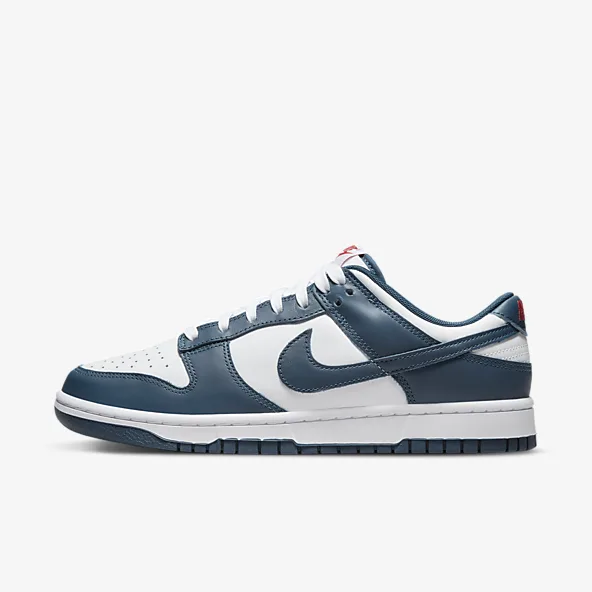
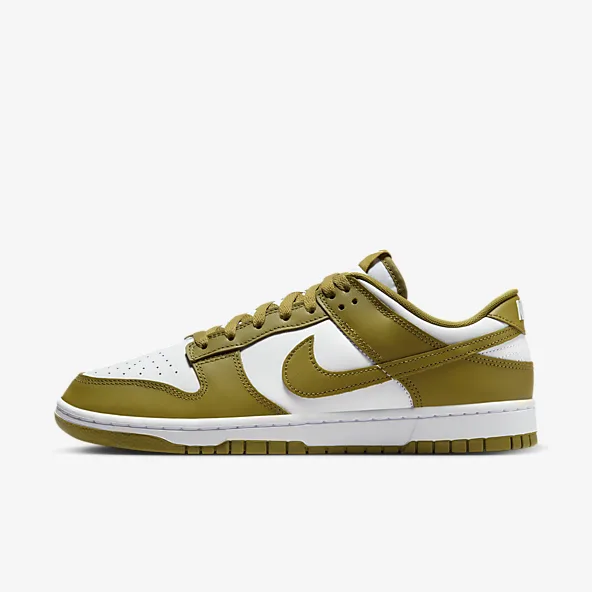
Added nike dunk low retro

Changed region(s): [[0.0912, 0.3953, 0.9122, 0.7905]]

diff --git a/scripts/data/variation.js b/scripts/data/variation.js
@@ -96,17 +96,42 @@
     ],
     images: [
       '../../images/men-shoe/men-shoe-2.png',
-      '../../images/men-shoe/variations/men-shoe-1/2.png',
-      '../../images/men-shoe/variations/men-shoe-1/3.jpeg',
-      '../../images/men-shoe/variations/men-shoe-1/4.png',
-      '../../images/men-shoe/variations/men-shoe-1/5.png',
-      '../../images/men-shoe/variations/men-shoe-1/6.png',
-      '../../images/men-shoe/variations/men-shoe-1/7.png',
-      '../../images/men-shoe/variations/men-shoe-1/8.png',
-      '../../images/men-shoe/variations/men-shoe-1/9.png'
+      '../../images/men-shoe/variations/men-shoe-2/2-1/2.jpeg',
+      '../../images/men-shoe/variations/men-shoe-2/2-1/3.png',
+      '../../images/men-shoe/variations/men-shoe-2/2-1/4.png',
+      '../../images/men-shoe/variations/men-shoe-2/2-1/5.png',
+      '../../images/men-shoe/variations/men-shoe-2/2-1/6.png',
+      '../../images/men-shoe/variations/men-shoe-2/2-1/7.png'
     ],
-    singleImage:'../../images/men-shoe/variations/men-shoe-2/shoe-details-main.png',
-    styleCode: 'FN5832-100'
+    singleImage:'../../images/men-shoe/variations/men-shoe-2/2-1/shoe-details-main.png',
+    styleCode: 'FN5832-100',
+    squareImage: '../../images/men-shoe/variations/men-shoe-2/2-1/square-image.png'
+  }, {
+    id: '2',
+    variationId: '2-2',
+    sizes: [
+      { menSize:'5.5', womenSize: '7', stock: 12 },
+      { menSize:'6', womenSize: '7.5', stock: 12 },
+      { menSize:'6.5', womenSize: '8', stock: 12 },
+      { menSize:'7', womenSize: '8.5', stock: 12 },
+      { menSize:'7.5', womenSize: '9', stock: 12 },
+      { menSize:'8', womenSize: '9.5', stock: 12 },
+      { menSize:'8.5', womenSize: '10', stock: 12 },
+      { menSize:'9', womenSize: '10.5', stock: 12 },
+      { menSize:'9.5', womenSize: '11', stock: 12 },
+    ],
+    images: [
+      '../../images/men-shoe/variations/men-shoe-2/2-2/shoe-details-main.png',
+      '../../images/men-shoe/variations/men-shoe-2/2-2/2.jpeg',
+      '../../images/men-shoe/variations/men-shoe-2/2-2/3.png',
+      '../../images/men-shoe/variations/men-shoe-2/2-2/4.png',
+      '../../images/men-shoe/variations/men-shoe-2/2-2/5.png',
+      '../../images/men-shoe/variations/men-shoe-2/2-2/6.png',
+      '../../images/men-shoe/variations/men-shoe-2/2-2/7.png'
+    ],
+    singleImage:'../../images/men-shoe/variations/men-shoe-2/2-2/shoe-details-main.png',
+    styleCode: 'FN5832-100',
+    squareImage: '../../images/men-shoe/variations/men-shoe-2/2-2/square-image.png'
   }];
 
   export let clickedVariation = '';
@@ -151,7 +176,7 @@
   }
 
   export function getDefaultVariation(variation) {
-    return variations.find((variationItem) => variationItem.variationId === variation.id + '-2');
+    return variations.find((variationItem) => variationItem.variationId === variation.id + '-1');
   }
 
 export function getVariationByVariationId(variaitonId){

diff --git a/scripts/shoe-details.js b/scripts/shoe-details.js
@@ -9,11 +9,16 @@ let defaultVariation = getDefaultVariation(variation);
 let clickedSize;
 let newVariation = defaultVariation;
 
+console.log(defaultVariation);
+
+
+
 renderShoeDetails();
+
 
 export function renderShoeDetails(){
   let galleryContainerHTML = ``;
-  console.log('variationId: '+newVariation.variationId);
+
 
   defaultVariation.images.forEach((imageSrc)=>{
     galleryContainerHTML+= `
@@ -23,6 +28,7 @@ export function renderShoeDetails(){
 
   document.querySelector('.js-shoe-gallery-container')
     .innerHTML = galleryContainerHTML;
+
 
   document.querySelector('.js-shoe-single-picture-container')
     .innerHTML = `
@@ -192,6 +198,7 @@ export function renderShoeDetails(){
       console.log('add'+newVariation.variationId)
       addToCart(newVariation.variationId, clickedSize);
       console.log(cart);
+      clickedSize = undefined;
     }
   
   })
